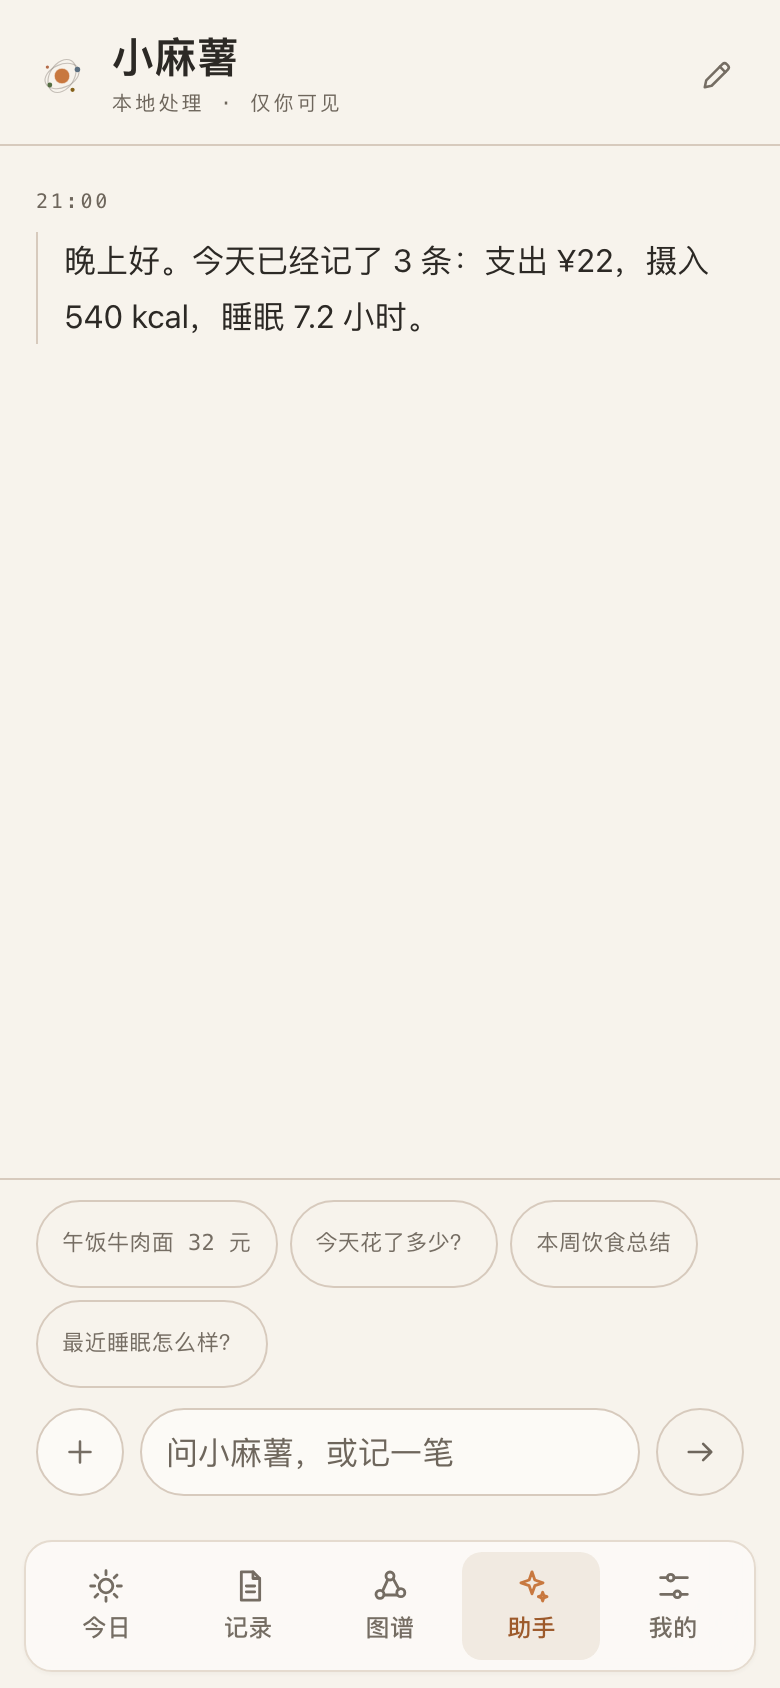
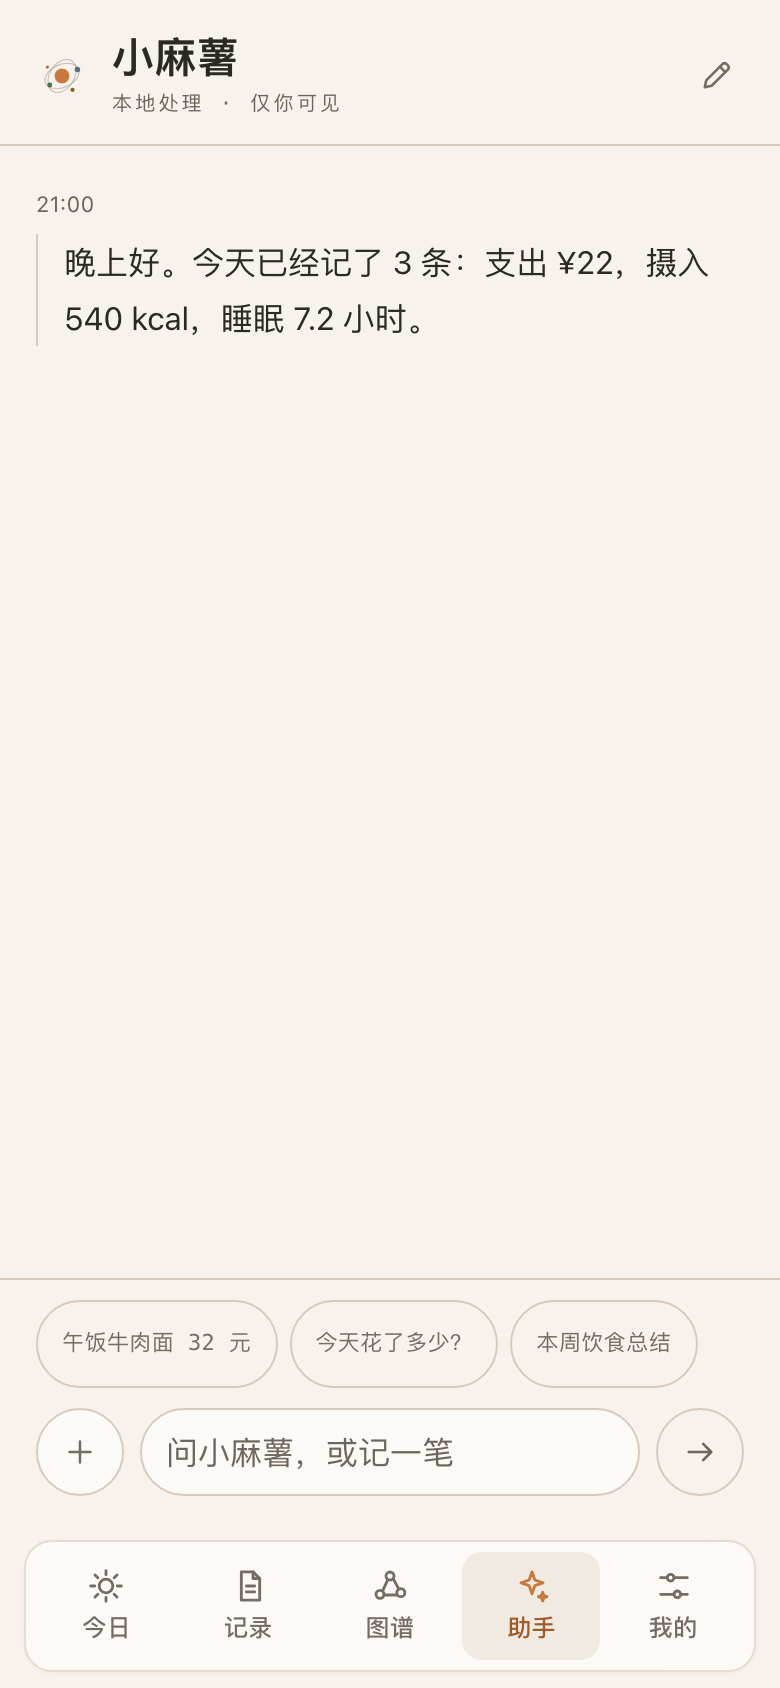
feat(P1/P2): calmer assistant + reading-first editor
Per design doc §07/§09:
- assistant: Mochi Node mark + 小麻薯 + 本地处理·仅你可见; plain time meta,
  compact confirmation card, max 3 welcome actions, follow-up chips only on the
  latest bot message; no AGENT/YOU console labels
- editor is reading-first: Markdown is rendered by default, only the edit state
  shows the formatting toolbar; the eye/pencil toggle and pin button are gone
  from the header, actions are merged into More (编辑正文 / 编辑记录信息 / 置顶 /
  复制 / 导出 / 删除), with a quiet 完成 action while editing
- connections block uses plain language 连接到 / 来自

diff --git a/src/App.tsx b/src/App.tsx
@@ -10,7 +10,7 @@ import type { AgentPersona, Note, NoteKind, NotePosition, RecordDraft, ThemeMode
 import type { KindFilter } from './screens/RecordsScreen';
 import { TodayScreen } from './screens/TodayScreen';
 import { RecordsScreen } from './screens/RecordsScreen';
-import { EditorScreen } from './screens/EditorScreen';
+import { EditorScreen, type Mode as EditorMode } from './screens/EditorScreen';
 import { SettingsScreen } from './screens/SettingsScreen';
 import { GraphView } from './components/GraphView';
 import { AgentPanel } from './components/AgentPanel';
@@ -44,6 +44,7 @@ export default function App() {
   const [toast, setToast] = useState<string | null>(null);
   const [noteMenu, setNoteMenu] = useState<Note | null>(null);
   const [editorMenuOpen, setEditorMenuOpen] = useState(false);
+  const [editorMode, setEditorMode] = useState<EditorMode>('preview');
   const [captureOpen, setCaptureOpen] = useState(false);
   const [captureKind, setCaptureKind] = useState<NoteKind | undefined>(undefined);
   const [nodeEditor, setNodeEditor] = useState<{ open: boolean; noteId: string | null; position?: NotePosition }>({
@@ -113,6 +114,11 @@ export default function App() {
     () => (route.name === 'note' ? api.notes.find((note) => note.id === route.id) ?? null : null),
     [api.notes, route],
   );
+
+  useEffect(() => {
+    if (!activeNote) return;
+    setEditorMode(activeNote.content.trim() ? 'preview' : 'edit');
+  }, [activeNote?.id]);
 
   useEffect(() => {
     if (!api.ready) return;
@@ -225,13 +231,22 @@ export default function App() {
   const editorMenuItems = useMemo<ActionSheetItem[]>(() => {
     if (!activeNote) return [];
     return [
-      { label: '编辑记录信息', icon: 'edit', onSelect: () => editRecord(activeNote) },
+      {
+        label: editorMode === 'edit' ? '完成编辑' : '编辑正文',
+        icon: 'edit',
+        onSelect: () => setEditorMode(editorMode === 'edit' ? 'preview' : 'edit'),
+      },
+      { label: '编辑记录信息', icon: 'tag', onSelect: () => editRecord(activeNote) },
+      {
+        label: activeNote.pinned ? '取消置顶' : '置顶',
+        icon: 'pin',
+        onSelect: () => api.togglePin(activeNote.id),
+      },
       { label: '复制 Markdown', icon: 'book', onSelect: () => void copyMarkdown(activeNote) },
       { label: '导出为 .md', icon: 'download', onSelect: () => exportMarkdown(activeNote) },
       { label: '删除', icon: 'trash', danger: true, onSelect: () => void removeNote(activeNote) },
     ];
-  }, [activeNote, copyMarkdown, editRecord, exportMarkdown, removeNote]);
-
+  }, [activeNote, api, copyMarkdown, editRecord, editorMode, exportMarkdown, removeNote]);
   const nodeEditorNote = useMemo(
     () => (nodeEditor.noteId ? api.notes.find((note) => note.id === nodeEditor.noteId) ?? null : null),
     [api.notes, nodeEditor.noteId],
@@ -464,9 +479,10 @@ export default function App() {
           key={activeNote.id}
           note={activeNote}
           notes={api.notes}
+          mode={editorMode}
+          onModeChange={setEditorMode}
           onChange={(patch) => api.updateNote(activeNote.id, patch)}
           onBack={goBack}
-          onTogglePin={() => api.togglePin(activeNote.id)}
           onMenu={() => setEditorMenuOpen(true)}
           onOpenNote={openNote}
           onCreateNote={(title) => void openOrCreateByTitle(title)}

diff --git a/src/screens/EditorScreen.tsx b/src/screens/EditorScreen.tsx
@@ -10,9 +10,10 @@ import { BacklinksPanel } from '../components/BacklinksPanel';
 export interface EditorScreenProps {
   note: Note;
   notes: Note[];
+  mode: Mode;
+  onModeChange: (mode: Mode) => void;
   onChange: (patch: NotePatch) => void;
   onBack: () => void;
-  onTogglePin: () => void;
   onMenu: () => void;
   onOpenNote: (id: string) => void;
   onCreateNote: (title: string) => void;
@@ -22,7 +23,7 @@ export interface EditorScreenProps {
   storageWarning?: string | null;
 }
 
-type Mode = 'edit' | 'preview';
+export type Mode = 'edit' | 'preview';
 
 interface SuggestState {
   query: string;
@@ -34,16 +35,16 @@ interface SuggestState {
 export function EditorScreen({
   note,
   notes,
+  mode,
+  onModeChange,
   onChange,
   onBack,
-  onTogglePin,
   onMenu,
   onOpenNote,
   onCreateNote,
   onEditRecord,
   storageWarning,
 }: EditorScreenProps) {
-  const [mode, setMode] = useState<Mode>(() => (note.content.trim() ? 'preview' : 'edit'));
   const [saveLabel, setSaveLabel] = useState('已保存');
   const [suggest, setSuggest] = useState<SuggestState | null>(null);
 
@@ -247,26 +248,18 @@ export function EditorScreen({
           <span className="editor-status">{words} 字</span>
 
         </div>
-        <button
-          type="button"
-          className="icon-btn"
-          aria-label={mode === 'edit' ? '切换到预览' : '切换到编辑'}
-          onClick={() => {
-            setMode(mode === 'edit' ? 'preview' : 'edit');
-            setSuggest(null);
-          }}
-        >
-          <Icon name={mode === 'edit' ? 'eye' : 'edit'} size={21} />
-        </button>
-        <button
-          type="button"
-          className={`icon-btn${note.pinned ? ' is-on' : ''}`}
-          aria-pressed={note.pinned}
-          aria-label={note.pinned ? '取消置顶' : '置顶笔记'}
-          onClick={onTogglePin}
-        >
-          <Icon name="pin" size={20} />
-        </button>
+        {mode === 'edit' ? (
+          <button
+            type="button"
+            className="editor-done"
+            onClick={() => {
+              onModeChange('preview');
+              setSuggest(null);
+            }}
+          >
+            完成
+          </button>
+        ) : null}
         <button type="button" className="icon-btn" aria-label="更多操作" onClick={onMenu}>
           <Icon name="more" size={20} />
         </button>

diff --git a/src/components/AgentPanel.css b/src/components/AgentPanel.css
@@ -412,3 +412,81 @@
     scroll-behavior: auto;
   }
 }
+
+
+/* v0.9 assistant refinements (§09): compact confirmation card, quiet meta */
+.agent-screen__meta,
+.agent-screen__meta--bot,
+.agent-screen__meta--user {
+  font-family: var(--font-sans);
+  font-size: 11px;
+  font-weight: 400;
+  letter-spacing: 0;
+  text-transform: none;
+  color: var(--text-faint);
+}
+
+.agent-screen__draft {
+  border-radius: var(--radius-m);
+  border-color: var(--border);
+  margin-top: 12px;
+}
+
+.agent-screen__draft-head {
+  padding: 7px 12px;
+}
+
+.agent-screen__draft-kind,
+.agent-screen__draft-state {
+  font-family: var(--font-sans);
+  font-size: var(--text-xs);
+  font-weight: 500;
+  letter-spacing: 0;
+  text-transform: none;
+}
+
+.agent-screen__draft-title {
+  padding: 9px 12px;
+  font-family: var(--font-sans);
+  font-size: var(--text-base);
+  font-weight: 600;
+}
+
+.agent-screen__draft-facts {
+  padding: 0 12px 2px;
+}
+
+.agent-screen__draft-fact {
+  padding: 6px 0;
+}
+
+.agent-screen__draft-fact dt {
+  font-family: var(--font-sans);
+  font-size: var(--text-xs);
+  font-weight: 400;
+  letter-spacing: 0;
+  text-transform: none;
+}
+
+.agent-screen__draft-fact dd {
+  font-family: var(--font-sans);
+  font-size: var(--text-sm);
+}
+
+.agent-screen__draft-actions {
+  gap: 8px;
+  padding: 10px 12px;
+}
+
+.agent-screen__draft-btn {
+  min-height: 42px;
+  border-radius: var(--radius-s);
+  font-family: var(--font-sans);
+  font-size: var(--text-sm);
+  letter-spacing: 0;
+}
+
+.agent-screen__suggestion {
+  font-family: var(--font-sans);
+  letter-spacing: 0;
+}

diff --git a/src/components/AgentPanel.tsx b/src/components/AgentPanel.tsx
@@ -199,7 +199,7 @@ export function AgentPanel({
     node.scrollTo({ top: node.scrollHeight, behavior: reduce ? 'auto' : 'smooth' });
   }, [messages]);
 
-  const starterSuggestions = useMemo(() => AGENT_SUGGESTIONS.slice(0, 4), []);
+  const starterSuggestions = useMemo(() => AGENT_SUGGESTIONS.slice(0, 3), []);
   const onlyGreeting = messages.length === 1;
 
   const handleSend = (): void => {
@@ -243,7 +243,7 @@ export function AgentPanel({
         aria-live="polite"
         aria-label={`与${persona.name}的对话`}
       >
-        {messages.map((message) => (
+        {messages.map((message, index) => (
           <div className={`agent-screen__row agent-screen__row--${message.role}`} key={message.id}>
             <p className={`agent-screen__meta agent-screen__meta--${message.role}`}>
               {clock(message.at)}
@@ -311,7 +311,7 @@ export function AgentPanel({
                     </div>
                   ) : null}
 
-                  {message.suggestions && message.suggestions.length > 0 ? (
+                  {message.suggestions && message.suggestions.length > 0 && index === messages.length - 1 ? (
                     <div className="agent-screen__suggestions" role="group" aria-label="继续提问">
                       {message.suggestions.map((suggestion) => (
                         <button

diff --git a/src/components/BacklinksPanel.tsx b/src/components/BacklinksPanel.tsx
@@ -23,12 +23,12 @@ export function BacklinksPanel({ note, notes, onOpenNote, onCreateNote }: Backli
   if (outgoing.length === 0 && backlinks.length === 0) return null;
 
   return (
-    <section className="backlinks-panel" aria-label="链接关系">
+    <section className="backlinks-panel" aria-label="关联">
       {outgoing.length > 0 ? (
         <div className="backlinks-panel__section">
           <div className="section-label backlinks-panel__heading">
             <Icon name="link" size={13} />
-            <span>链接到</span>
+            <span>连接到</span>
             <span className="badge">{outgoing.length}</span>
           </div>
           <div className="backlinks-panel__list">
@@ -69,7 +69,7 @@ export function BacklinksPanel({ note, notes, onOpenNote, onCreateNote }: Backli
         <div className="backlinks-panel__section">
           <div className="section-label backlinks-panel__heading">
             <Icon name="arrowRight" size={13} />
-            <span>被链接</span>
+            <span>来自</span>
             <span className="badge">{backlinks.length}</span>
           </div>
           <div className="backlinks-panel__list">

diff --git a/src/styles/app.css b/src/styles/app.css
@@ -2346,3 +2346,17 @@ button.settings-row:active {
   mask-image: linear-gradient(to right, #000 calc(100% - 26px), transparent);
   padding-right: 26px;
 }
+
+/* editor: single visible mode switch via More, quiet done action */
+.editor-done {
+  flex: none;
+  min-height: 40px;
+  padding: 0 10px;
+  font-size: var(--text-sm);
+  font-weight: 500;
+  color: var(--accent-ink);
+}
+
+.editor-header-meta .editor-dot {
+  opacity: 0.5;
+}
